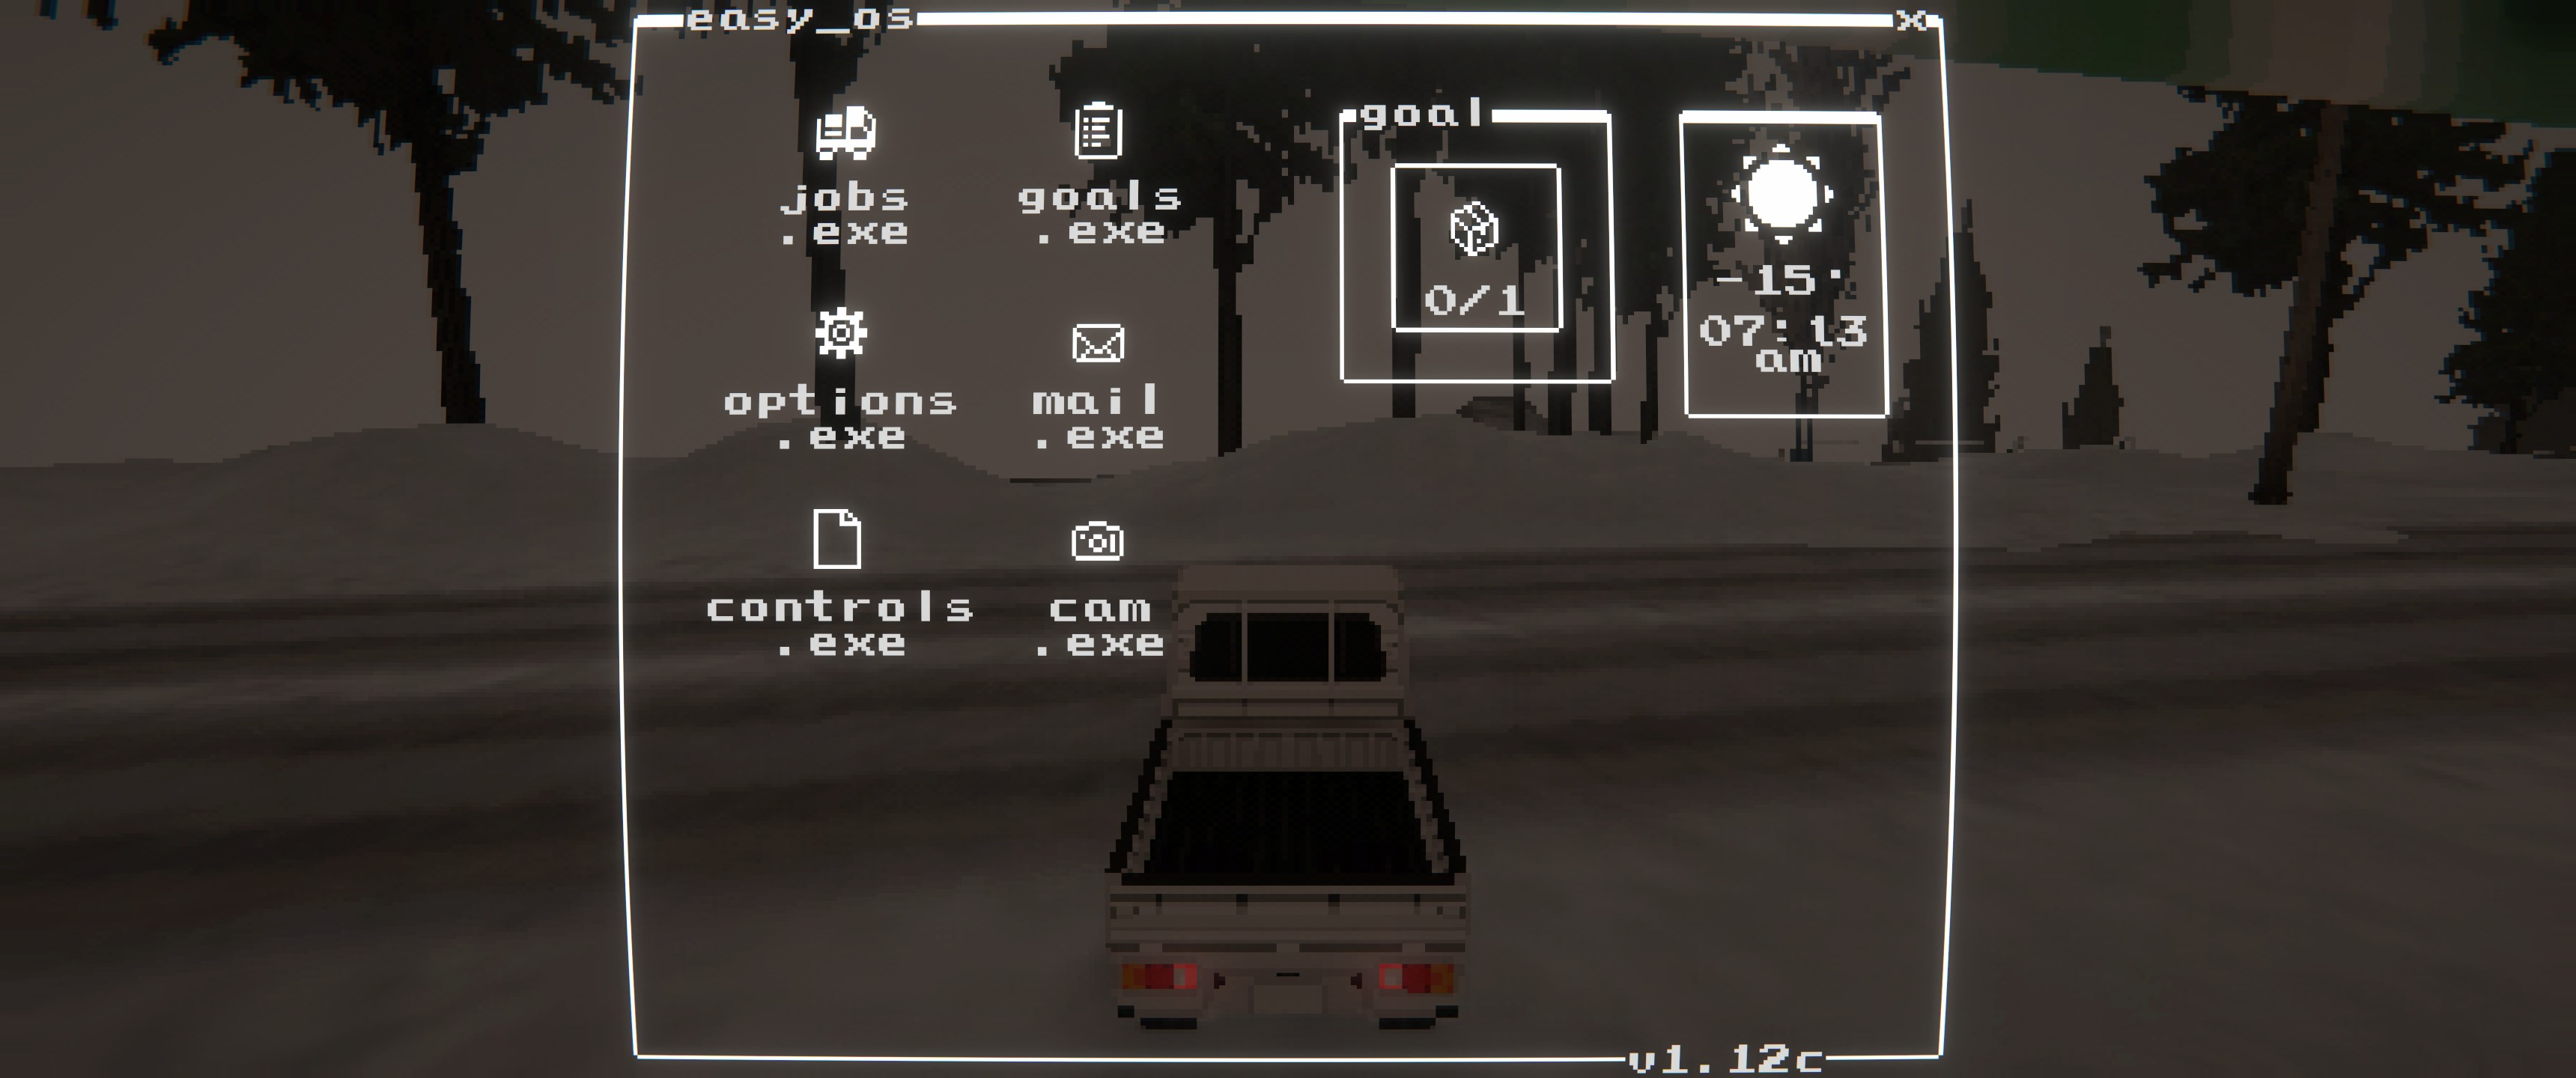
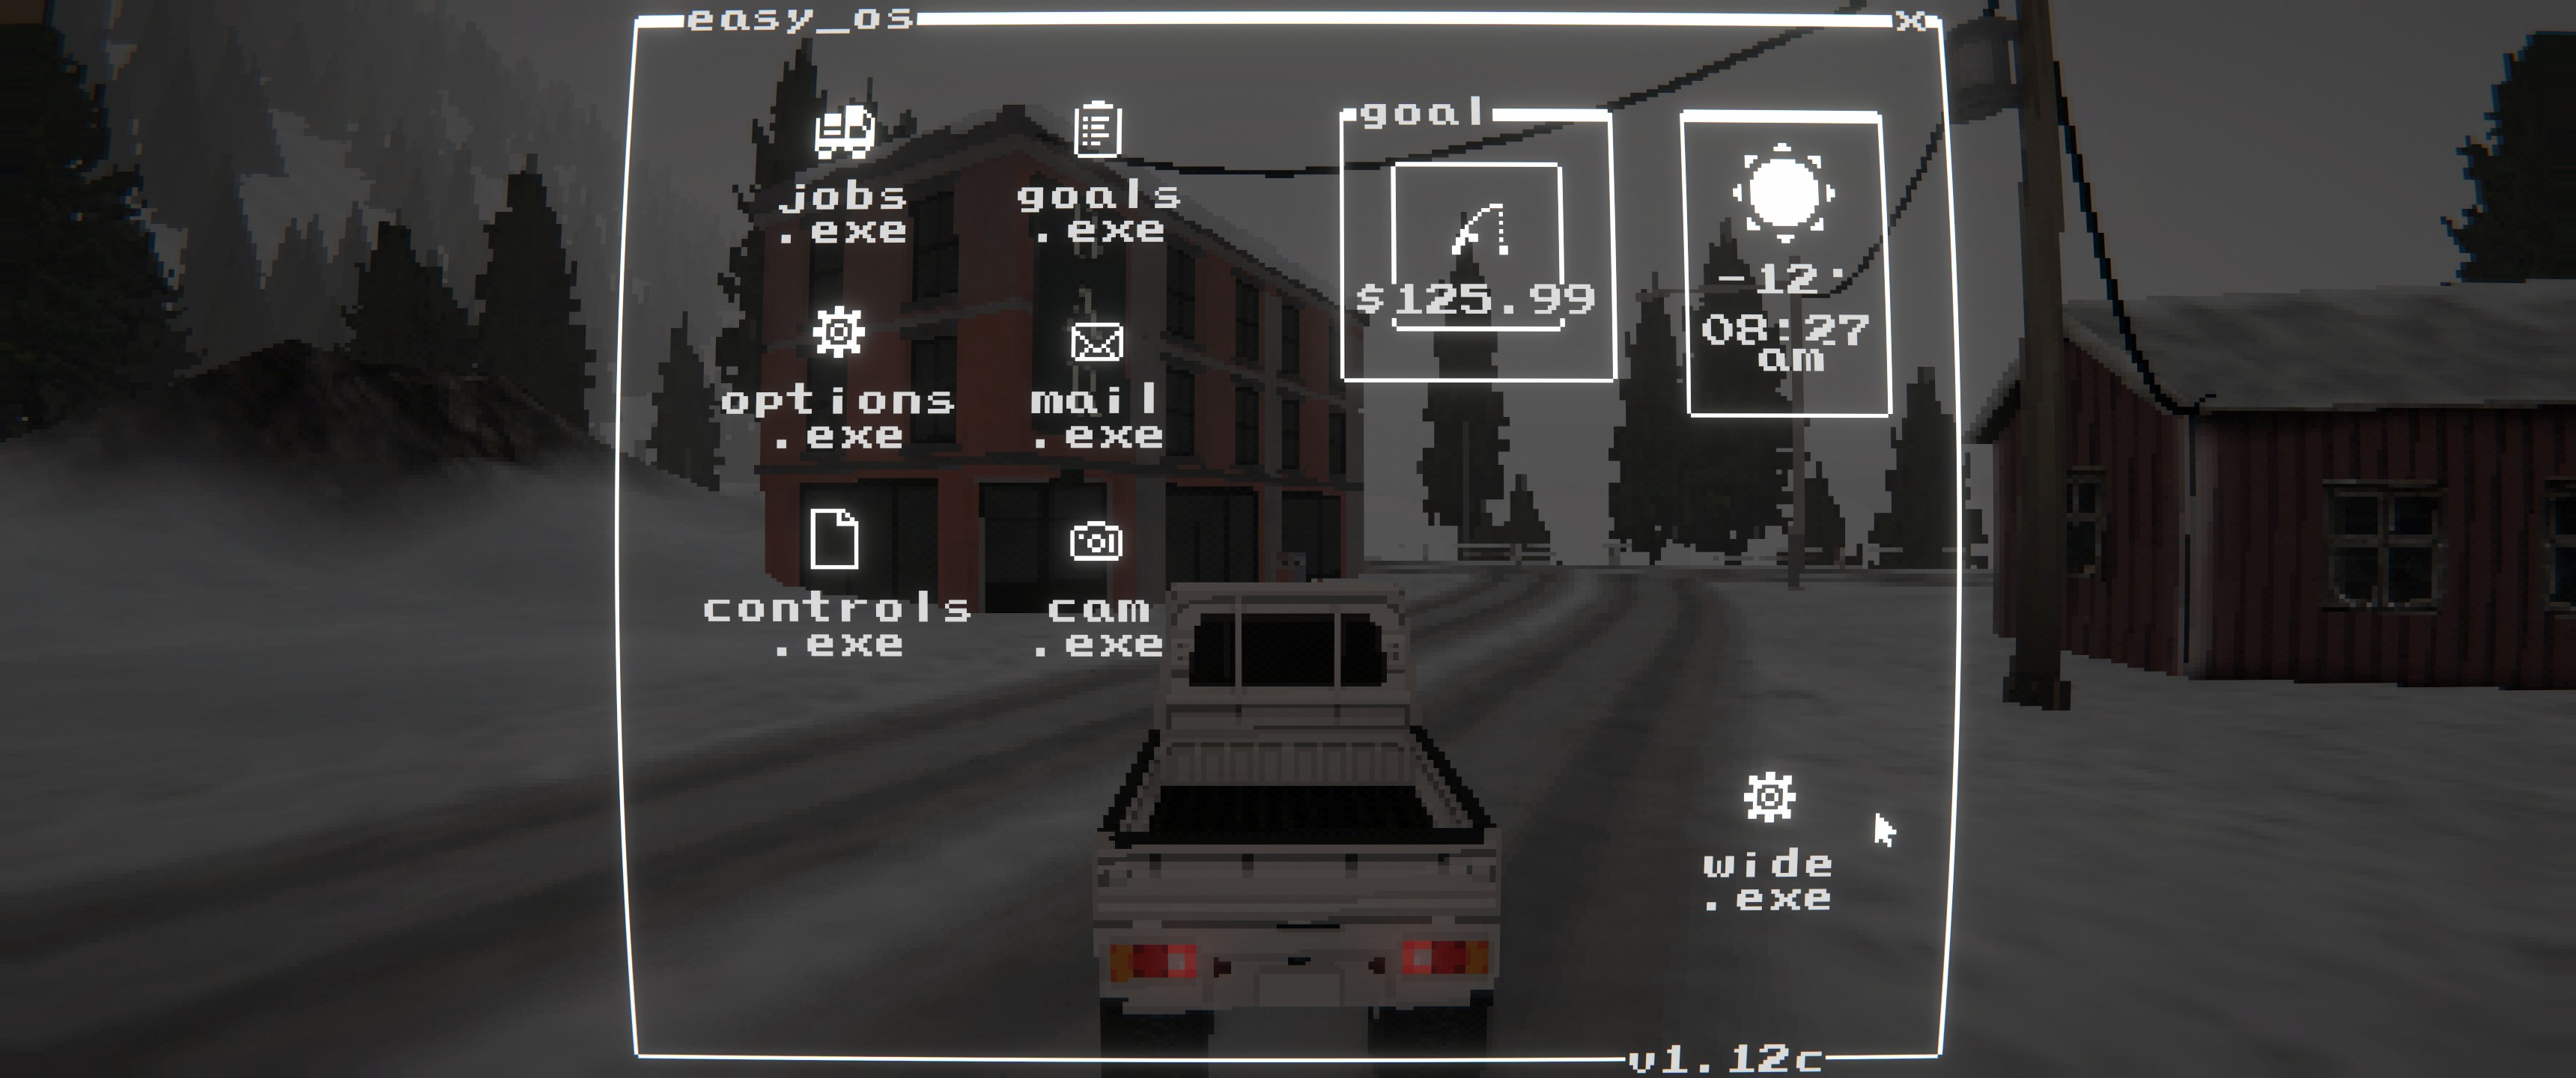
Versioning, docs update, screenshot update

diff --git a/EasyDeliveryCoUltrawide/Properties/AssemblyInfo.cs b/EasyDeliveryCoUltrawide/Properties/AssemblyInfo.cs
@@ -31,5 +31,5 @@ using System.Runtime.InteropServices;
 // You can specify all the values or you can default the Build and Revision Numbers 
 // by using the '*' as shown below:
 // [assembly: AssemblyVersion("1.0.*")]
-[assembly: AssemblyVersion("1.0.4.0")]
-[assembly: AssemblyFileVersion("1.0.4.0")]
+[assembly: AssemblyVersion("1.1.0.0")]
+[assembly: AssemblyFileVersion("1.1.0.0")]

diff --git a/EasyDeliveryCoUltrawide/Plugin.cs b/EasyDeliveryCoUltrawide/Plugin.cs
@@ -7,6 +7,6 @@ namespace EasyDeliveryCoUltrawide
     {
         public const string PluginGuid = "shibe.easydeliveryco.ultrawide";
         public const string PluginName = "Ultrawide Mod";
-        public const string PluginVersion = "1.0.6";
+        public const string PluginVersion = "1.1.0";
     }
 }

diff --git a/README.md b/README.md
@@ -1,14 +1,36 @@
-<img width="128" height="128" alt="Image" src="https://github.com/user-attachments/assets/5c852127-6fa1-48b4-b94d-84fd1b0ddee4" />
+<h1>
+<p align="center">
+  <img src="https://raw.githubusercontent.com/shiibe/EasyDeliveryCoUltrawide/refs/heads/main/assets/icon.png" alt="Logo" width="128">
+  <br>EasyDeliveryCoUltrawide
+</h1>
+  <p align="center">
+    Ultrawide monitor support for Easy Delivery Co.
+    <br />
+    <a href="#about">About</a>
+    ·
+    <a href="#screenshots">Screenshots</a>
+    ·
+    <a href="#features">Features</a>
+    ·
+    <a href="#installation">Installation</a>
+    ·
+    <a href="#configuration">Configuration</a>
+    ·
+    <a href="#fov-menu">FOV Menu</a>
+    ·
+    <a href="#build">Build</a>
+  </p>
+</p>
+<hr/>
 
-# Easy Delivery Co. - Ultrawide Support Mod
+## About
+This is a BepInEx + Harmony mod that patches Easy Delivery Co's camera and UI systems to behave better on ultrawide.
 
-Ultrawide support via camera and UI overlay fixes for Easy Delivery Co. This mod unlocks viewport scaling for wide displays, keeps HUD elements readable, and ensures menus and transitions stretch cleanly across ultrawide aspect ratios.
-
-## Features
-- Unlocks camera viewports for ultrawide displays
-- Optional aspect ratio overrides for gameplay and menu cameras
-- Scales menu, pause, and transition overlays to full width
-- Keeps main UI elements at their intended ratio
+- Forces primary gameplay cameras to render full-width on ultrawide (and can override camera aspect to a target ratio)
+- Rescales menu/pause/transition overlays so fades/backdrops cover the full screen
+- Patches HUD rendering paths (`pixelPerfectView`/`MiniRenderer`) so UI stays readable instead of stretched
+- Adds a `wide.exe` entry in the main menu that opens an in-game settings window
+- Saves separate 1st/3rd person FOV overrides to PlayerPrefs and applies the correct one at runtime
 
 ## Screenshots
 ![Screenshot 1](https://raw.githubusercontent.com/shiibe/EasyDeliveryCoUltrawide/refs/heads/main/assets/screenshots/1.jpg)
@@ -19,19 +41,34 @@ Ultrawide support via camera and UI overlay fixes for Easy Delivery Co. This mod
 ![Screenshot 6](https://raw.githubusercontent.com/shiibe/EasyDeliveryCoUltrawide/refs/heads/main/assets/screenshots/6.jpg)
 ![Screenshot 7](https://raw.githubusercontent.com/shiibe/EasyDeliveryCoUltrawide/refs/heads/main/assets/screenshots/7.jpg)
 
+## Features
+- Full-width gameplay viewport on ultrawide
+- Optional aspect ratio override for gameplay + menu cameras
+- Overlay fixes (menus, pause, transitions) scaled to full width
+- HUD scaling and positioning fixes (toggleable)
+- In-game FOV menu via `wide.exe` in the main menu with separate `1st Per.` / `3rd Per.` sliders (max 110)
+- Automatically skips FOV overrides while inside buildings
+
 ## Installation
+Dependencies
+- `BepInEx-BepInExPack-5.4.2304`
+
+Install
 - r2modman/Thunderstore: install and launch the game
 - Manual: copy `EasyDeliveryCoUltrawide.dll` to `BepInEx/plugins/EasyDeliveryCoUltrawide/`
 
-#### Configuration
+## Configuration
 - Config file: `BepInEx/config/shibe.easydeliveryco.ultrawide.cfg`
 - `enable_mod`: enable/disable the mod
 - `enable_hud_fix`: enable/disable HUD scaling and positioning fixes
 - `aspect_ratio`: `auto` (display), `window`, `21:9`, `32:9`, `2.39`
 
-## Planned Features
-- Add menu in-game for FOV settings
+## FOV Menu
+- Click `wide.exe` in the main menu to access the settings
+- Separate saved values for `1st Per.` and `3rd Per.`
+- Saved in PlayerPrefs (not the BepInEx config)
+- FOV overrides are skipped while inside buildings
 
 ## Build
 - Build: `dotnet build EasyDeliveryCoUltrawide/EasyDeliveryCoUltrawide.csproj -c Release`
-- Package: `powershell -NoProfile -ExecutionPolicy Bypass -File scripts/package.ps1 -Version 1.0.6`
+- Package: `powershell -NoProfile -ExecutionPolicy Bypass -File scripts/package.ps1 -Version 1.1.0`

diff --git a/CHANGELOG.md b/CHANGELOG.md
@@ -1,3 +1,10 @@
+## 1.1.0
+- Add in-game mod menu (`wide.exe`) for configuring in-game options.
+- Add separate FOV sliders for `1st Per.` and `3rd Per.` (max 110).
+- Skip FOV overrides while inside buildings.
+- Fix camera stretch in `CamDotExe`.
+- Internal refactor/split `Plugin.cs` into partials.
+
 ## 1.0.6
 - Refresh README screenshots.
 